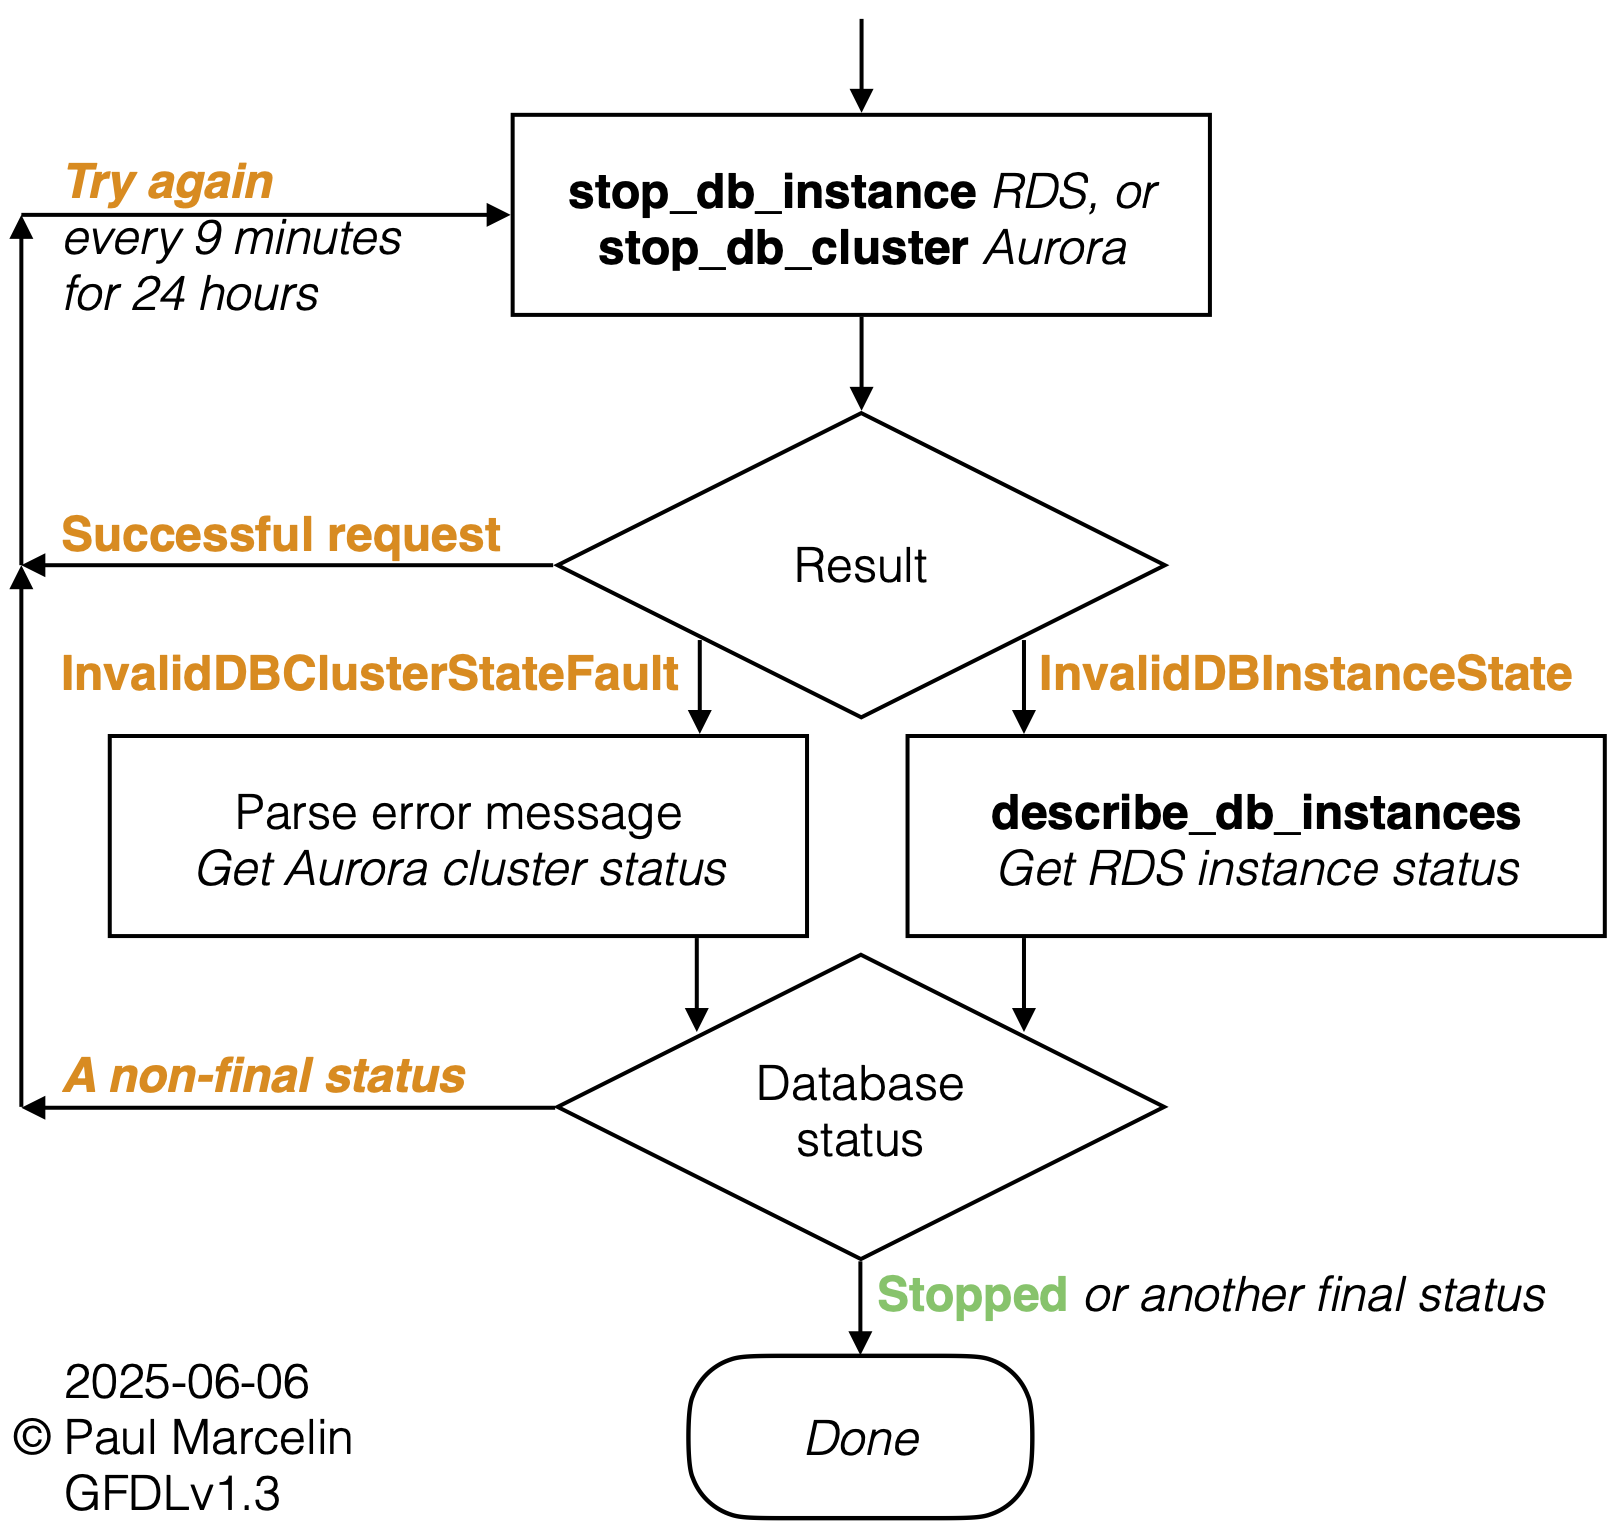
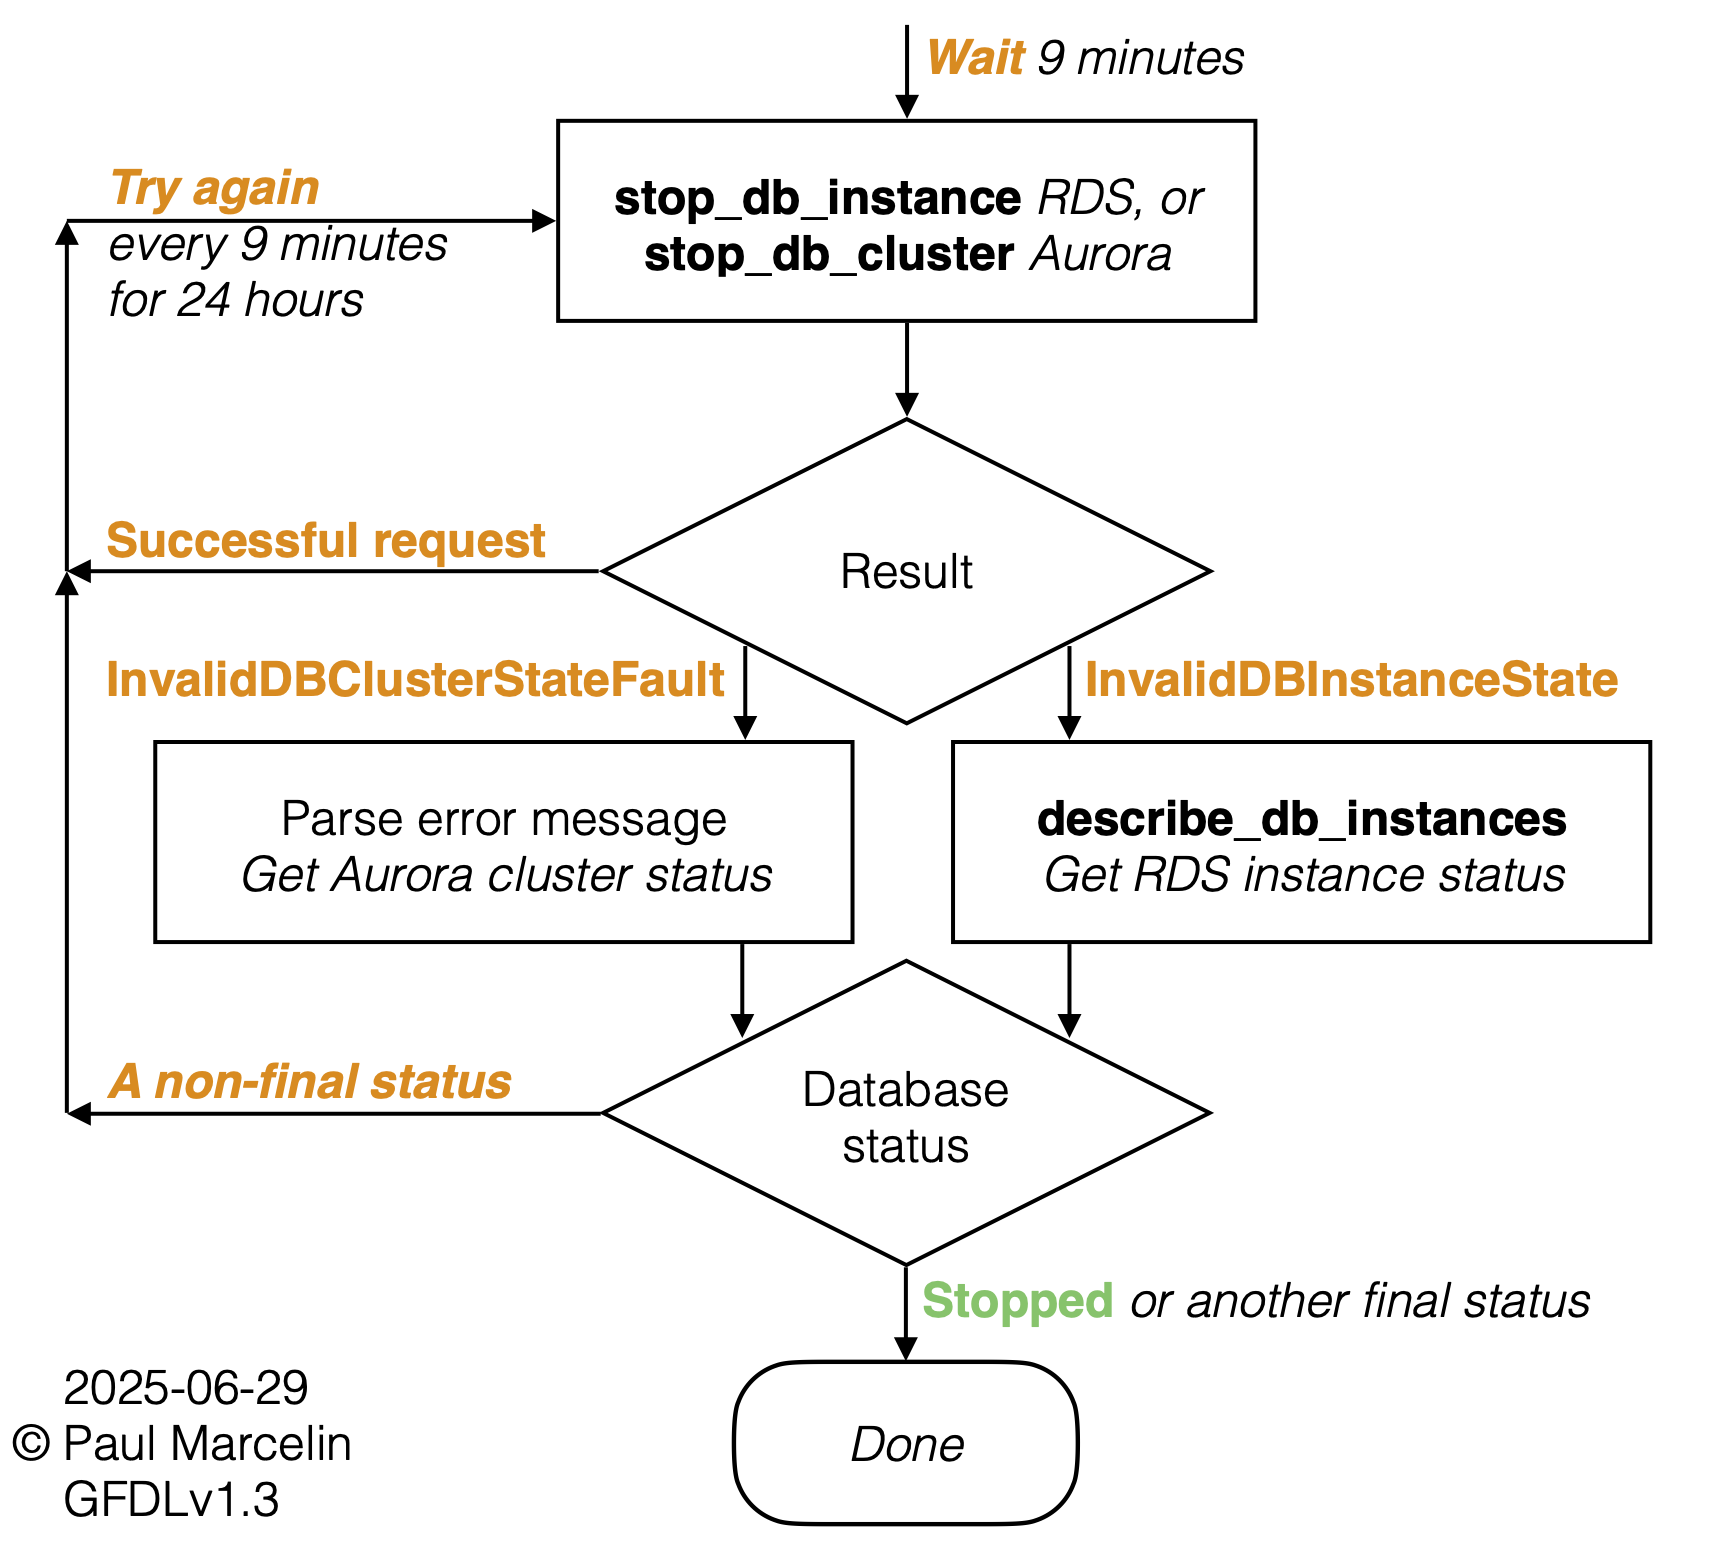
Add 1st-time SQS message delivery delay equal to visibility timeout (#9)
In rare cases, AWS emits the forced database start event before the database
status changes from stopped to starting. Set the main SQS queue 1st-time
message delivery delay to a default of 9 minutes, which is the same as the
default message [in]visibility timeout / (retry interval).

diff --git a/README.md b/README.md
@@ -40,7 +40,7 @@ _[**NEW!**
 is a<wbr/>
 low-code, Step Function-based implementation of the same process.]_
 
-[<img src="media/stay-stopped-aws-rds-aurora-flow-simple.png" alt="Call to stop the Relational Database Service or Aurora database. Case 1: If the stop request succeeds, retry. Case 2: If the Aurora cluster is in an invalid state, parse the error message to get the status. Case 3: If the RDS instance is in an invalid state, get the status by calling to describe the RDS instance. Exit if the database status from Case 2 or 3 is 'stopped' or another final status. Otherwise, retry every 9 minutes, for 24 hours." width="325" />](media/stay-stopped-aws-rds-aurora-flow-simple.png?raw=true "Simplified flowchart for [Step-]Stay Stopped, RDS and Aurora!")
+[<img src="media/stay-stopped-aws-rds-aurora-flow-simple.png" alt="After waiting 9 minutes, call to stop the Relational Database Service or Aurora database. Case 1: If the stop request succeeds, retry. Case 2: If the Aurora cluster is in an invalid state, parse the error message to get the status. Case 3: If the RDS instance is in an invalid state, get the status by calling to describe the RDS instance. Exit if the database status from Case 2 or 3 is 'stopped' or another final status. Otherwise, retry every 9 minutes, for 24 hours." width="325" />](media/stay-stopped-aws-rds-aurora-flow-simple.png?raw=true "Simplified flowchart for [Step-]Stay Stopped, RDS and Aurora!")
 
 - You do not need to set any opt-in or opt-out tags. If a database has been
   running continuously, it  will keep running. If it was stopped for 7 days,
@@ -82,7 +82,7 @@ low-code, Step Function-based implementation of the same process.]_
 
 Click to view the architecture diagram and flowchart:
 
-[<img src="media/stay-stopped-aws-rds-aurora-architecture-and-flow-thumb.png" alt="Relational Database Service Event Bridge events '0153' and '0154' (database started after exceeding 7-day maximum stop time) go to the main Simple Queue Service queue. The Amazon Web Services Lambda function stops the RDS instance or the Aurora cluster. If the database's status is invalid, the queue message becomes visible again in 9 minutes. A final status of 'stopping', 'deleting' or 'deleted' ends retries, as does an error status. After 160 tries (24 hours), the message goes to the error (dead letter) SQS queue." height="144" />](media/stay-stopped-aws-rds-aurora-architecture-and-flow.png?raw=true "Architecture diagram and flowchart for Stay Stopped, RDS and Aurora!")
+[<img src="media/stay-stopped-aws-rds-aurora-architecture-and-flow-thumb.png" alt="Relational Database Service Event Bridge events '0153' and '0154' (database started after exceeding 7-day maximum stop time) go to the main Simple Queue Service queue, where messages are initially delayed 9 minutes. The Amazon Web Services Lambda function stops the RDS instance or the Aurora cluster. If the database's status is invalid, the queue message becomes visible again in 9 minutes. A final status of 'stopping', 'deleting' or 'deleted' ends retries, as does an error status. After 160 tries (24 hours), the message goes to the error (dead letter) SQS queue." height="144" />](media/stay-stopped-aws-rds-aurora-architecture-and-flow.png?raw=true "Architecture diagram and flowchart for Stay Stopped, RDS and Aurora!")
 
 ## Get Started
 
@@ -286,8 +286,9 @@ these parameters in CloudFormation:
 |:---|:---:|:---:|
 |`Test`|`false`|`true`|
 |`LogLevel`|`ERROR`|`INFO`|
-|`QueueVisibilityTimeoutSecs`|`540`|`60`|
+|`QueueDelaySecs`|`540`|`60`|
 |&rarr; _Equivalent in minutes_|_9 minutes_|_1 minute_|
+|`QueueVisibilityTimeoutSecs`|`540`|`60`|
 |`QueueMaxReceiveCount`|`160`|`30`|
 |&rarr; _Equivalent time_|_24 hours_|_30 minutes_|
 
@@ -470,14 +471,16 @@ my own
 Stay-Stopped requires only one Lambda function, but inserts an SQS queue
 between EventBridge and Lambda. Waiting occurs outside the Lambda function.
 SQS counts up toward a
+[first-time message delivery delay](https://docs.aws.amazon.com/AWSSimpleQueueService/latest/SQSDeveloperGuide/sqs-delay-queues.html).
+Later, SQS counts up toward a
 [message [in]visibility timeout](https://docs.aws.amazon.com/AWSSimpleQueueService/latest/SQSDeveloperGuide/sqs-visibility-timeout.html),
 making it possible to periodically retry the Lambda function, with the
 original EventBridge event message, until the return value indicates success.
 If
 [maxReceiveCount](https://docs.aws.amazon.com/AWSSimpleQueueService/latest/SQSDeveloperGuide/sqs-dead-letter-queues.html#policies-for-dead-letter-queues)
 is reached instead, SQS gives up and moves the message to a dead letter queue.
-Between the [in]visibility timeout and the receive count, SQS maintains all
-the state that's needed.
+Between the first-time delivery delay, the [in]visibility timeout, and the
+receive count, SQS maintains all the state that's needed.
 
 Given that the Lambda function receives the _original_ event message again
 and again, how does Stay-Stopped track the database's progress from `starting`
@@ -485,6 +488,13 @@ to `available` (the only status from which it can be stopped) and then to
 `stopped` (or another final status)? It doesn't. One idempotent Lambda
 function does the same thing each time it's invoked, avoiding the need for a
 Step Function state machine.
+
+> Interestingly, the RDS API is eventually consistent, not strongly consistent.
+After RDS emits a "DB cluster is being started" or "DB instance is being
+started" event, `stop_db_cluster` or `stop_db_instance` and
+`describe_db_instances` might still see the database's stale `stopped` status
+rather than its current `starting` status. The first-time message delivery
+delay has been added for this reason.
 
 Each time the Lambda function is invoked, it tries to stop the database by
 calling `stop_db_cluster` (for an Aurora event) or `stop_db_instance` (for
